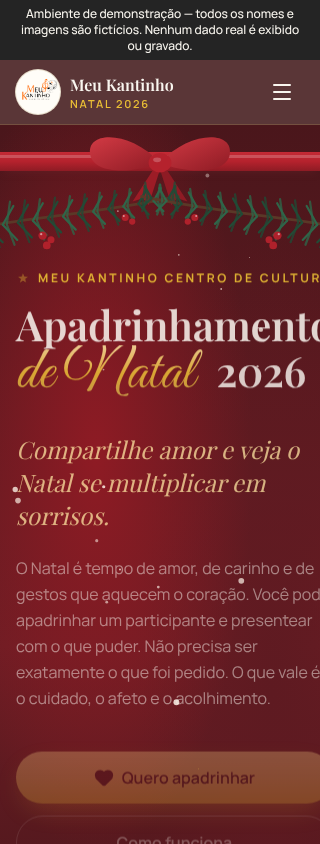
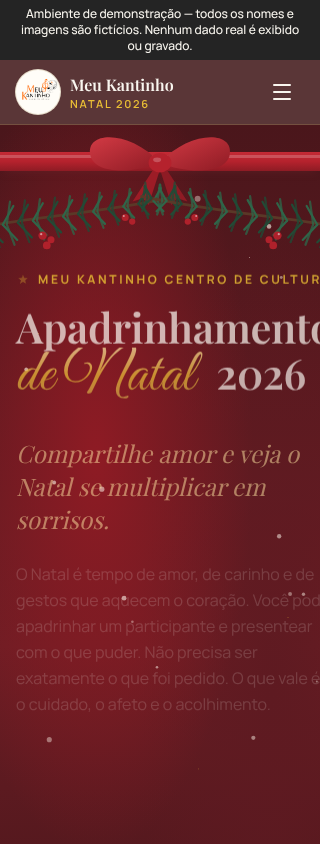
Página inicial: Papai Noel acenando; corrige 'Presenteie com o que puder'
Claude-Session: https://claude.ai/code/session_01MHJVeojKSKwbUj19d8FMWv

diff --git a/src/components/decor/WavingSanta.tsx b/src/components/decor/WavingSanta.tsx
@@ -1,0 +1,42 @@
+import { useId } from 'react';
+
+/** Papai Noel acenando (ilustração própria, SVG). O braço balança devagar; parado com prefers-reduced-motion. */
+export function WavingSanta({ className, style }: { className?: string; style?: React.CSSProperties }) {
+  const u = useId().replace(/:/g, '');
+  const id = (n: string) => `${n}-${u}`;
+  return (
+    <svg viewBox="-250 -235 560 545" className={className} style={style} aria-hidden="true">
+      <defs>
+        <linearGradient id={id('ws-red')} x1="0" y1="0" x2="1" y2="1"><stop offset="0" stopColor="#E53A45" /><stop offset="1" stopColor="#A90F20" /></linearGradient>
+        <radialGradient id={id('ws-skin')} cx="45%" cy="40%" r="65%"><stop offset="0" stopColor="#FFE3CF" /><stop offset="1" stopColor="#F7C4A6" /></radialGradient>
+        <linearGradient id={id('ws-fur')} x1="0" y1="0" x2="0" y2="1"><stop offset="0" stopColor="#FFFFFF" /><stop offset="1" stopColor="#E9EEF3" /></linearGradient>
+        <filter id={id('ws-sh')} x="-20%" y="-20%" width="140%" height="150%"><feDropShadow dx="0" dy="10" stdDeviation="10" floodColor="#2a0008" floodOpacity=".45" /></filter>
+      </defs>
+      <g filter={`url(#${id('ws-sh')})`}>
+        <path d="M-190 300 Q-200 170 -110 140 L110 140 Q200 170 190 300 Z" fill={`url(#${id('ws-red')})`} />
+        <rect x="-190" y="230" width="380" height="34" fill="#2B1B17" />
+        <rect x="-22" y="226" width="44" height="42" rx="6" fill="none" stroke="#EABF35" strokeWidth="9" />
+        {/* braço que acena */}
+        <g className="santa-wave">
+          <path d="M150 190 Q230 120 250 20" stroke={`url(#${id('ws-red')})`} strokeWidth="62" strokeLinecap="round" fill="none" />
+          <ellipse cx="238" cy="36" rx="44" ry="22" transform="rotate(27 238 36)" fill={`url(#${id('ws-fur')})`} />
+          <ellipse cx="262" cy="-18" rx="40" ry="48" fill="#6B2E1F" transform="rotate(18 262 -18)" />
+          <ellipse cx="232" cy="-40" rx="14" ry="26" fill="#6B2E1F" transform="rotate(-25 232 -40)" />
+        </g>
+        <ellipse cx="0" cy="10" rx="128" ry="122" fill={`url(#${id('ws-skin')})`} />
+        <ellipse cx="-62" cy="42" rx="26" ry="17" fill="#F49C9C" opacity=".75" /><ellipse cx="62" cy="42" rx="26" ry="17" fill="#F49C9C" opacity=".75" />
+        <path d="M-140 10 Q-150 120 -95 185 Q-60 230 0 238 Q60 230 95 185 Q150 120 140 10 Q120 70 80 78 Q40 60 0 70 Q-40 60 -80 78 Q-120 70 -140 10 Z" fill={`url(#${id('ws-fur')})`} />
+        <g fill="#FFFFFF"><circle cx="-110" cy="120" r="34" /><circle cx="110" cy="120" r="34" /><circle cx="-70" cy="180" r="40" /><circle cx="70" cy="180" r="40" /><circle cx="0" cy="205" r="44" /></g>
+        <path d="M0 62 Q-30 40 -70 52 Q-95 62 -98 86 Q-60 70 -30 86 Q-10 92 0 78 Q10 92 30 86 Q60 70 98 86 Q95 62 70 52 Q30 40 0 62 Z" fill="#FFFFFF" stroke="#E3E8ED" strokeWidth="3" />
+        <ellipse cx="0" cy="46" rx="22" ry="18" fill="#F07A7A" /><ellipse cx="-6" cy="40" rx="7" ry="5" fill="#fff" opacity=".6" />
+        <path d="M-62 2 Q-46 -16 -30 2" stroke="#4A2620" strokeWidth="7" strokeLinecap="round" fill="none" />
+        <path d="M30 2 Q46 -16 62 2" stroke="#4A2620" strokeWidth="7" strokeLinecap="round" fill="none" />
+        <path d="M-78 -32 Q-48 -52 -20 -36" stroke="#fff" strokeWidth="14" strokeLinecap="round" fill="none" />
+        <path d="M20 -36 Q48 -52 78 -32" stroke="#fff" strokeWidth="14" strokeLinecap="round" fill="none" />
+        <path d="M140 -50 Q120 -190 -10 -205 Q-120 -210 -175 -120 Q-200 -80 -215 -30 Q-170 -95 -120 -80 L-140 -50 Z" fill={`url(#${id('ws-red')})`} />
+        <circle cx="-222" cy="-20" r="36" fill={`url(#${id('ws-fur')})`} />
+        <rect x="-160" y="-78" width="320" height="64" rx="32" fill={`url(#${id('ws-fur')})`} />
+      </g>
+    </svg>
+  );
+}

diff --git a/src/pages/Home.tsx b/src/pages/Home.tsx
@@ -11,6 +11,7 @@ import { PixBox } from '@/components/PixBox';
 import { MusicNote, PineBranch, RibbonBow, Sparkle, Star, Logo, Instagram } from '@/components/decor/Decor';
 import { Garland, Ornament, Snowfall } from '@/components/decor/Festive';
 import { useReducedMotion } from '@/hooks/useReducedMotion';
+import { WavingSanta } from '@/components/decor/WavingSanta';
 
 function Hero({ campaign }: { campaign: Campaign | null }) {
   const title = campaign?.heroTitle ?? CAMPAIGN_TEXTS.heroTitle;
@@ -44,6 +45,7 @@ function Hero({ campaign }: { campaign: Campaign | null }) {
         </div>
         <HeroArt />
       </div>
+      <div className="santa-bob pointer-events-none absolute bottom-10 right-4 z-[2] w-24 sm:right-8 sm:w-32 lg:hidden" aria-hidden="true"><WavingSanta className="h-auto w-full" /></div>
       <Garland className="relative z-[2] -mb-1" />
     </section>
   );
@@ -67,8 +69,9 @@ function HeroArt() {
         </div>
       </div>
       <div className="absolute -left-6 bottom-6 -rotate-6 rounded-xl bg-pine px-4 py-2.5 text-cream shadow-lift">
-        <p className="flex items-center gap-2 text-sm font-semibold"><Gift className="h-4 w-4 text-yellow" />Presente com o que puder</p>
+        <p className="flex items-center gap-2 text-sm font-semibold"><Gift className="h-4 w-4 text-yellow" />Presenteie com o que puder</p>
       </div>
+      <div className="santa-bob absolute -bottom-20 -right-6 z-[3] w-40"><WavingSanta className="h-auto w-full" /></div>
       <Sparkle className="twinkle absolute right-2 top-28 h-6 w-6 text-yellow" />
       <Sparkle className="twinkle absolute -left-2 top-48 h-4 w-4 text-cream" style={{ animationDelay: '1.2s' }} />
     </div>

diff --git a/src/styles/index.css b/src/styles/index.css
@@ -227,3 +227,10 @@ dialog.mk-dialog[open] > .dialog-panel { animation: dialog-in .28s var(--ease-ou
 @keyframes cc-settle { 0% { transform: scale(1.05); } 100% { transform: scale(.7) translateY(24px); } }
 @keyframes cc-text { from { opacity: 0; transform: translateY(18px); } to { opacity: 1; transform: none; } }
 @media (prefers-reduced-motion: reduce) { .cc-show * { animation: none !important; transition: none !important; } }
+
+/* Papai Noel acenando na página inicial */
+.santa-wave { transform-box: view-box; transform-origin: 150px 190px; animation: santa-wave 1.6s ease-in-out infinite; }
+@keyframes santa-wave { 0%, 100% { transform: rotate(-4deg); } 25% { transform: rotate(14deg); } 50% { transform: rotate(-6deg); } 75% { transform: rotate(12deg); } }
+.santa-bob { animation: santa-bob 3.2s ease-in-out infinite; transform-origin: 50% 100%; }
+@keyframes santa-bob { 0%, 100% { transform: translateY(0) rotate(0); } 50% { transform: translateY(-4px) rotate(-1.5deg); } }
+@media (prefers-reduced-motion: reduce) { .santa-wave, .santa-bob { animation: none !important; } }
